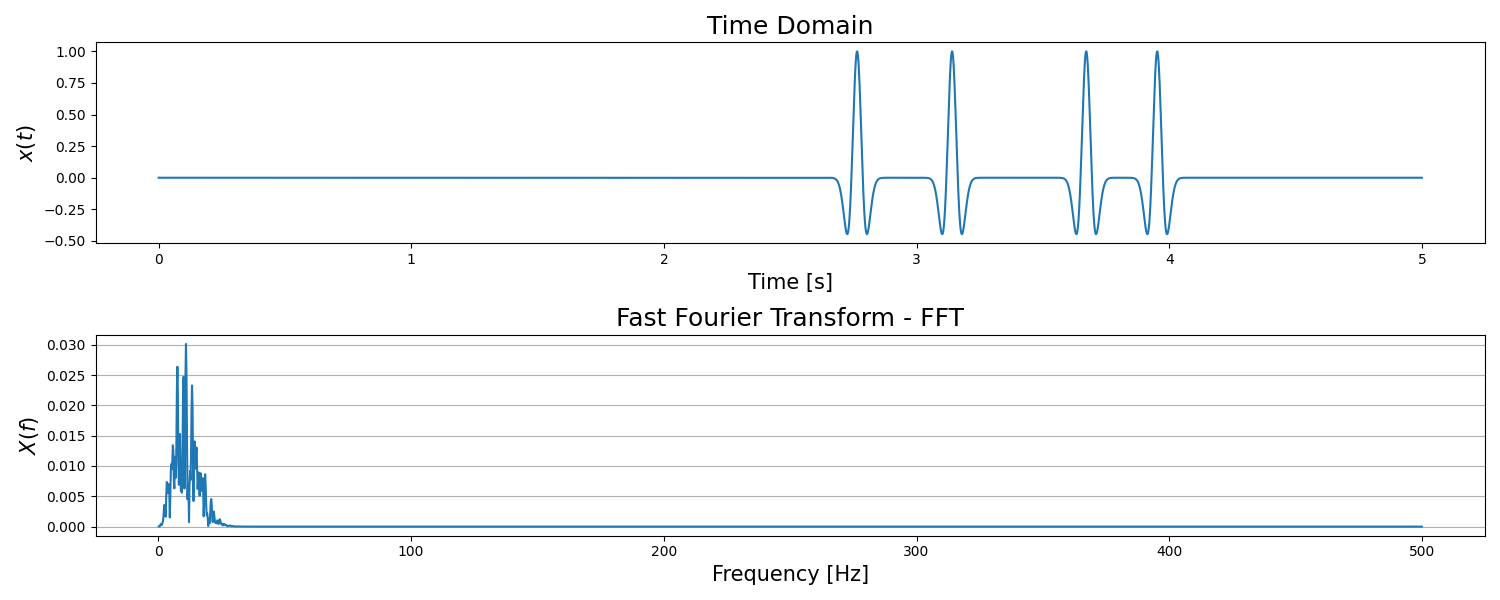
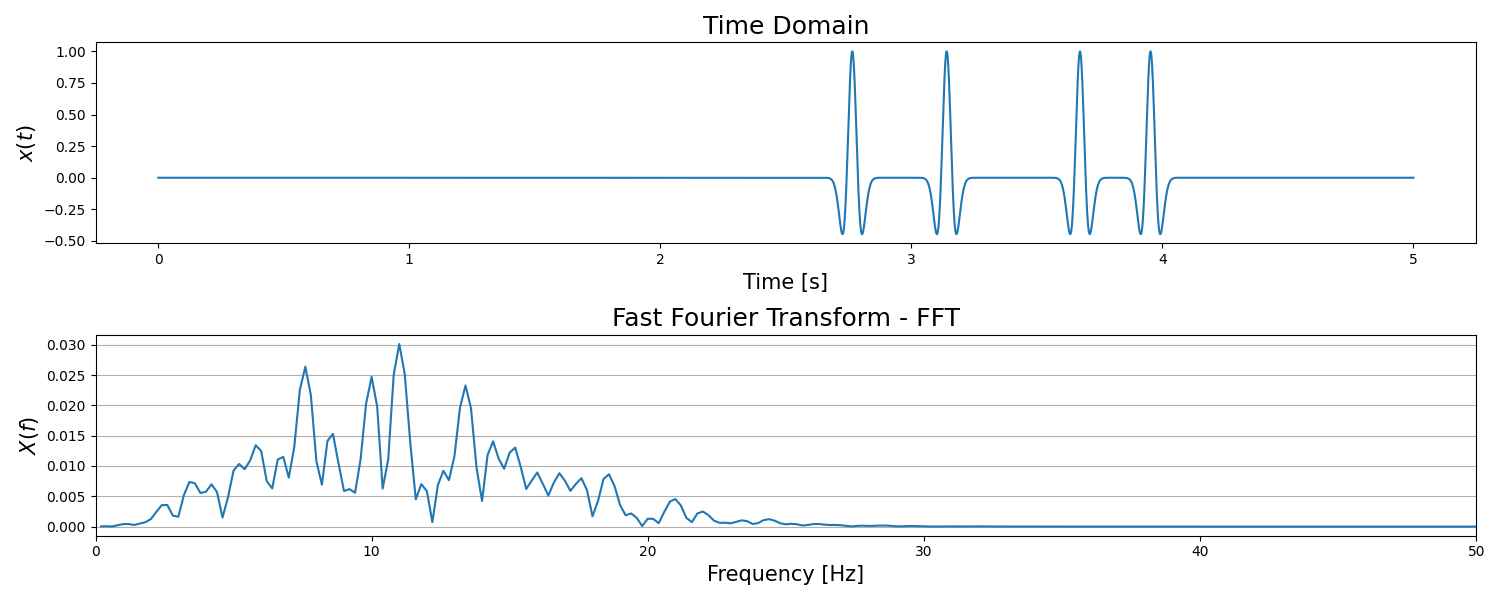
xlim

diff --git a/signals_n_systems/fft.py b/signals_n_systems/fft.py
@@ -53,6 +53,7 @@ ax[1].set_title("Fast Fourier Transform - FFT", fontsize = 18)
 ax[1].plot(freq[mascara], Amp1[mascara])
 ax[1].set_xlabel("Frequency [Hz]", fontsize = 15)
 ax[1].set_ylabel(r"$X(f)$", fontsize = 15)
+ax[1].set_xlim(0,50)
 
 fig.tight_layout()
 plt.grid(axis = "y")
@@ -72,6 +73,7 @@ ax[1].set_title("Fast Fourier Transform - FFT", fontsize = 18)
 ax[1].plot(freq[mascara], Amp80[mascara])
 ax[1].set_xlabel("Frequency [Hz]", fontsize = 15)
 ax[1].set_ylabel(r"$X(f)$", fontsize = 15)
+ax[1].set_xlim(0,50)
 
 fig.tight_layout()
 plt.grid(axis = "y")
@@ -91,6 +93,7 @@ ax[1].set_title("Fast Fourier Transform - FFT", fontsize = 18)
 ax[1].plot(freq[mascara], Amp161[mascara])
 ax[1].set_xlabel("Frequency [Hz]", fontsize = 15)
 ax[1].set_ylabel(r"$X(f)$", fontsize = 15)
+ax[1].set_xlim(0,50)
 
 fig.tight_layout()
 plt.grid(axis = "y")
